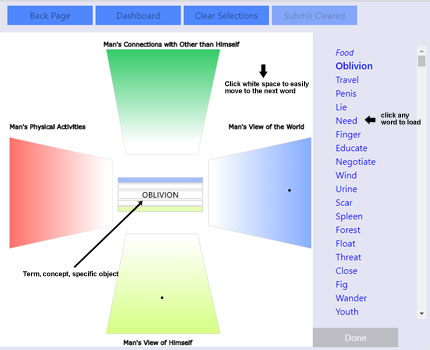
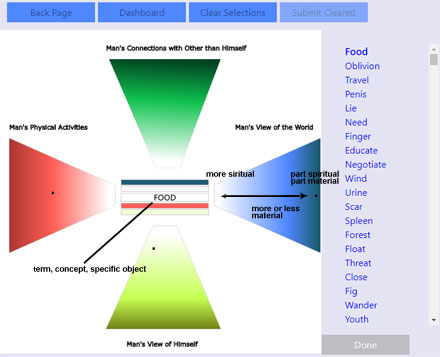
added dark gradient

diff --git a/public/js/s1.js b/public/js/s1.js
@@ -122,12 +122,13 @@ Ybigh = {
                     
                         let new_color = Ybigh.get_color(touchEvent);
 
-                        if(Ybigh.paths[i].objID == "world"){//done
+                        if(Ybigh.paths[i].objID == "world"){//done done
 
-                            let gradient = Ybigh.colorctx.createLinearGradient(630, 0, 375, 0);
+                            let gradient = Ybigh.colorctx.createLinearGradient(575, 0, 375, 0);
 
+                            gradient.addColorStop(0,    "#014421");
+                            gradient.addColorStop(0.4,  "#4f87ff");
                             gradient.addColorStop(1,    "white");
-                            gradient.addColorStop(0,    "#4f87ff");
 
                             Ybigh.colorctx.beginPath()
                             Ybigh.colorctx.moveTo(550, 185);
@@ -151,13 +152,13 @@ Ybigh = {
                             Ybigh.counter_hash.push({count:Ybigh.click_counter, category: new_color.category});
                             //Ybigh.colorctx.fillText(mouseX+","+mouseY, mouseX-2, mouseY-2);
                             //console.log(new_color);
-                        }else if(Ybigh.paths[i].objID == "others"){//done
+                        }else if(Ybigh.paths[i].objID == "others"){//done done
+            
+                            let gradient = Ybigh.colorctx.createLinearGradient(-90, 30, -100, 200);
 
-                            let gradient = Ybigh.colorctx.createLinearGradient(0, 0, 0, 195);
-
-                            gradient.addColorStop(1,    "white");
-                            gradient.addColorStop(0,    "#0fc14e");
-
+                            gradient.addColorStop(0,    "#014421"); 
+                            gradient.addColorStop(0.4,    "#0fc14e");
+                            gradient.addColorStop(1,    "white");                        
                             Ybigh.colorctx.beginPath();
                             Ybigh.colorctx.moveTo(190, 50);
                             Ybigh.colorctx.lineTo(270, 235);
@@ -181,12 +182,13 @@ Ybigh = {
                             Ybigh.counter_hash.push({count:Ybigh.click_counter, category: new_color.category});
                             //Ybigh.colorctx.fillText(mouseX+","+mouseY, mouseX-2, mouseY-2);
                             //console.log(new_color);
-                        }else if(Ybigh.paths[i].objID == "activities"){//done
+                        }else if(Ybigh.paths[i].objID == "activities"){//done done
+                 
+                            let gradient = Ybigh.colorctx.createLinearGradient(190, 0, -50, 0);
 
-                            let gradient = Ybigh.colorctx.createLinearGradient(190, 0, 0, 0);
-
-                            gradient.addColorStop(1,    "#ff5f57");
                             gradient.addColorStop(0,    "white");
+                            gradient.addColorStop(0.4,  "#ff5f57");
+                            gradient.addColorStop(1,    "#600F0C");
 
                             Ybigh.colorctx.beginPath();
                             Ybigh.colorctx.moveTo(20, 185);
@@ -210,12 +212,13 @@ Ybigh = {
                             Ybigh.counter_hash.push({count:Ybigh.click_counter, category: new_color.category});
                             //Ybigh.colorctx.fillText(mouseX+","+mouseY, mouseX-2, mouseY-2);
                             //console.log(new_color);
-                        }else{
+                        }else{ //done done
 
-                            let gradient = Ybigh.colorctx.createLinearGradient(0, 320, 0, 580);
+                            let gradient = Ybigh.colorctx.createLinearGradient(0, 530, 0, 350); //x,y,x,y
 
-                            gradient.addColorStop(1,    "#c5ff52");
-                            gradient.addColorStop(0,    "white");
+                            gradient.addColorStop(0,    "#525100");
+                            gradient.addColorStop(0.4,    "#c5ff52");
+                            gradient.addColorStop(1,    "white");
 
                             Ybigh.colorctx.beginPath();
                             Ybigh.colorctx.moveTo(185, 510);
@@ -555,6 +558,7 @@ Ybigh = {
                     nameID: "others",
                     col1: "white", //green
                     col2: "#0fc14e",
+                    col0: "#014421",
                     x: 190,//190
                     y: 50,
                     xlt:270,//225
@@ -563,16 +567,22 @@ Ybigh = {
                     ylt1:235,//
                     xlt2:380,//390
                     ylt2:50,//
-                    sx: 0,
-                    fx: 195,
+                    sy: 30,
+                    fy: 200,
+                    sx: -90,
+                    fx: -100,
+                    stop1:0,
+                    stop2:0.4,
+                    stop3:1,
                     labelX: 185,
                     labelY: 35,
                     label: "Man\'s Connections with Other than Himself"
                 },
                 {
                     nameID: "activities",
-                    col1: "#ff5f57", //red
-                    col2: "white",
+                    col1: "#600F0C", //red 
+                    col2: "#ff5f57",
+                    col0: "white",
                     x: 20,//20
                     y: 185,//
                     xlt:200,//200
@@ -581,8 +591,13 @@ Ybigh = {
                     ylt1:300,//chg
                     xlt2:20,//20
                     ylt2:380,//
+                    sy:0,
+                    fy:0,
                     sx: 190,
-                    fx: 0,
+                    fx: -50,
+                    stop1:0,
+                    stop2:0.4,
+                    stop3:1,
                     labelX: 20,
                     labelY: 170,
                     label: "Man\'s Physical Activities"
@@ -591,6 +606,7 @@ Ybigh = {
                     nameID: "world",
                     col1: "white", //blue
                     col2: "#4f87ff",
+                    col0: "#014421",
                     x: 550,//550
                     y: 185,//
                     xlt:370,//370
@@ -599,16 +615,22 @@ Ybigh = {
                     ylt1:300,//chg
                     xlt2:550,//550
                     ylt2:380,//
-                    sx: 630,
+                    sy:0,
+                    fy:0,
+                    sx: 575,
                     fx: 375,
+                    stop1:0,
+                    stop2:0.4,
+                    stop3:1,
                     labelX: 405,
                     labelY: 170,
                     label: "Man\'s View of the World"
                 },
                 {
                     nameID: "himself",
-                    col1: "#c5ff52", //yellow
-                    col2: "white",
+                    col1: "white", //yellow
+                    col2: "#c5ff52",
+                    col0: "#525100",
                     x: 185,//190
                     y: 510,
                     xlt:265,//225
@@ -617,8 +639,13 @@ Ybigh = {
                     ylt1:335,
                     xlt2:380,//390
                     ylt2:510,
-                    sx: 320,
-                    fx: 580,
+                    sy: 530,
+                    fy: 350,
+                    sx: 0,
+                    fx: 0,
+                    stop1:0,
+                    stop2:0.4,
+                    stop3:1,
                     labelX: 220,
                     labelY: 540,
                     label: "Man\'s View of Himself"
@@ -635,14 +662,14 @@ Ybigh = {
        for(var i=0; i<colors.length; i++){
 
             if (colors[i].nameID == "others" || colors[i].nameID == "himself"){
-                gradient = Ybigh.colorctx.createLinearGradient(0, colors[i].sx, 0, colors[i].fx);
+                gradient = Ybigh.colorctx.createLinearGradient(colors[i].sx, colors[i].sy, colors[i].fx, colors[i].fy);
             }else{
-                gradient = Ybigh.colorctx.createLinearGradient(colors[i].sx,0 ,colors[i].fx, 0);
+                gradient = Ybigh.colorctx.createLinearGradient(colors[i].sx, colors[i].sy ,colors[i].fx, colors[i].fy);
             }
             
-            gradient.addColorStop(1,    colors[i].col1);
-            gradient.addColorStop(0,    colors[i].col2);
-            
+            gradient.addColorStop(colors[i].stop1,    colors[i].col0);
+            gradient.addColorStop(colors[i].stop2,    colors[i].col2);
+            gradient.addColorStop(colors[i].stop3,    colors[i].col1);
             var path1 = new Path2D();
 
             path1.moveTo(colors[i].x, colors[i].y);
